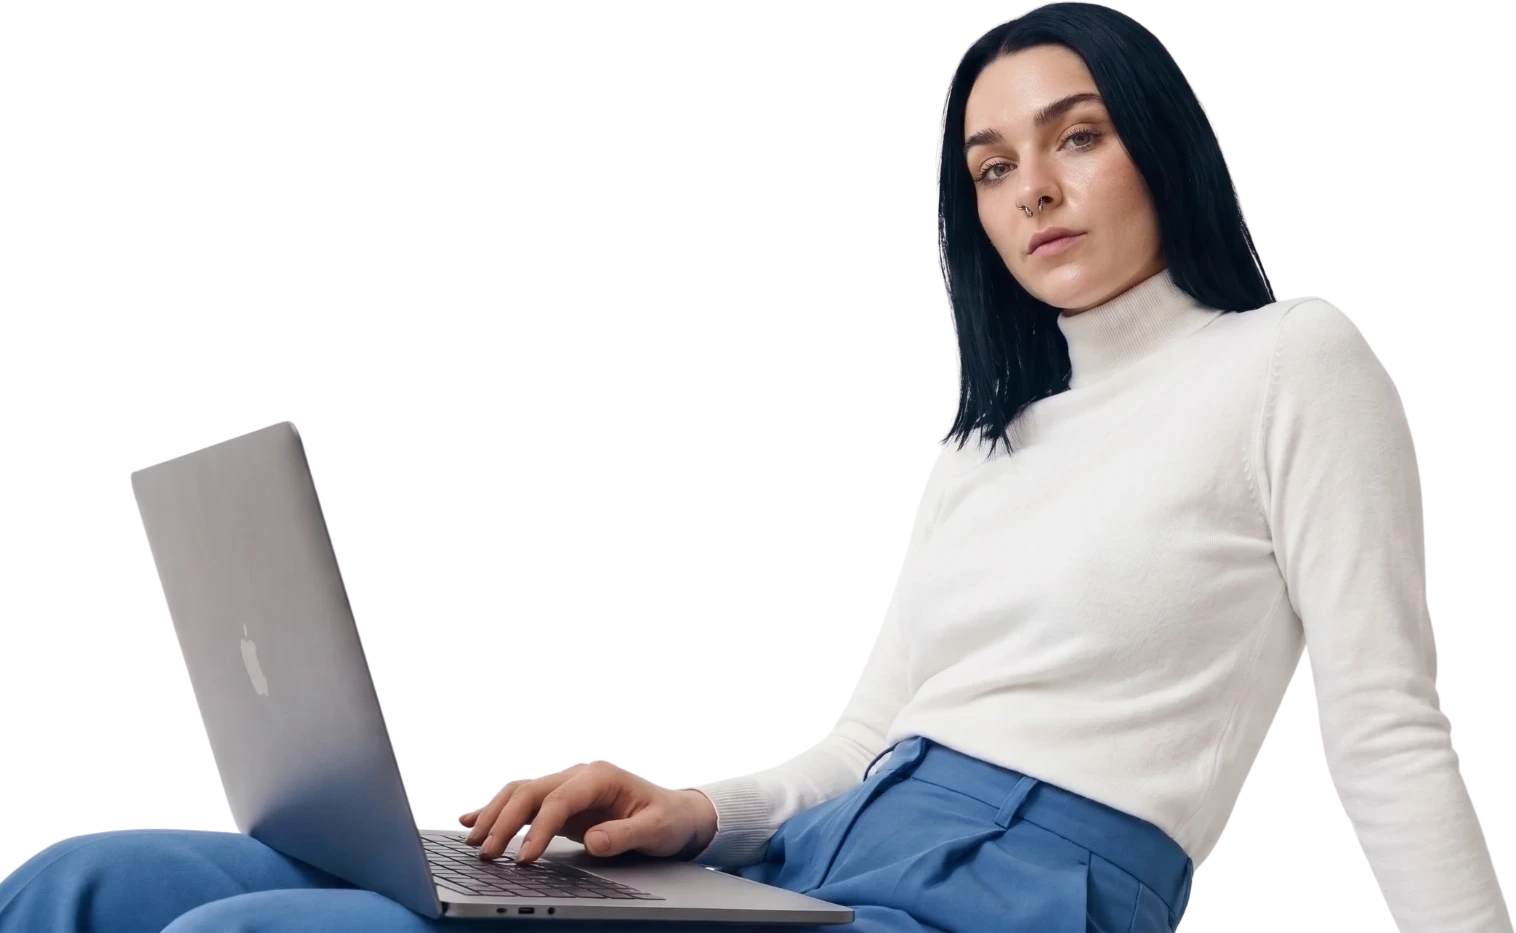
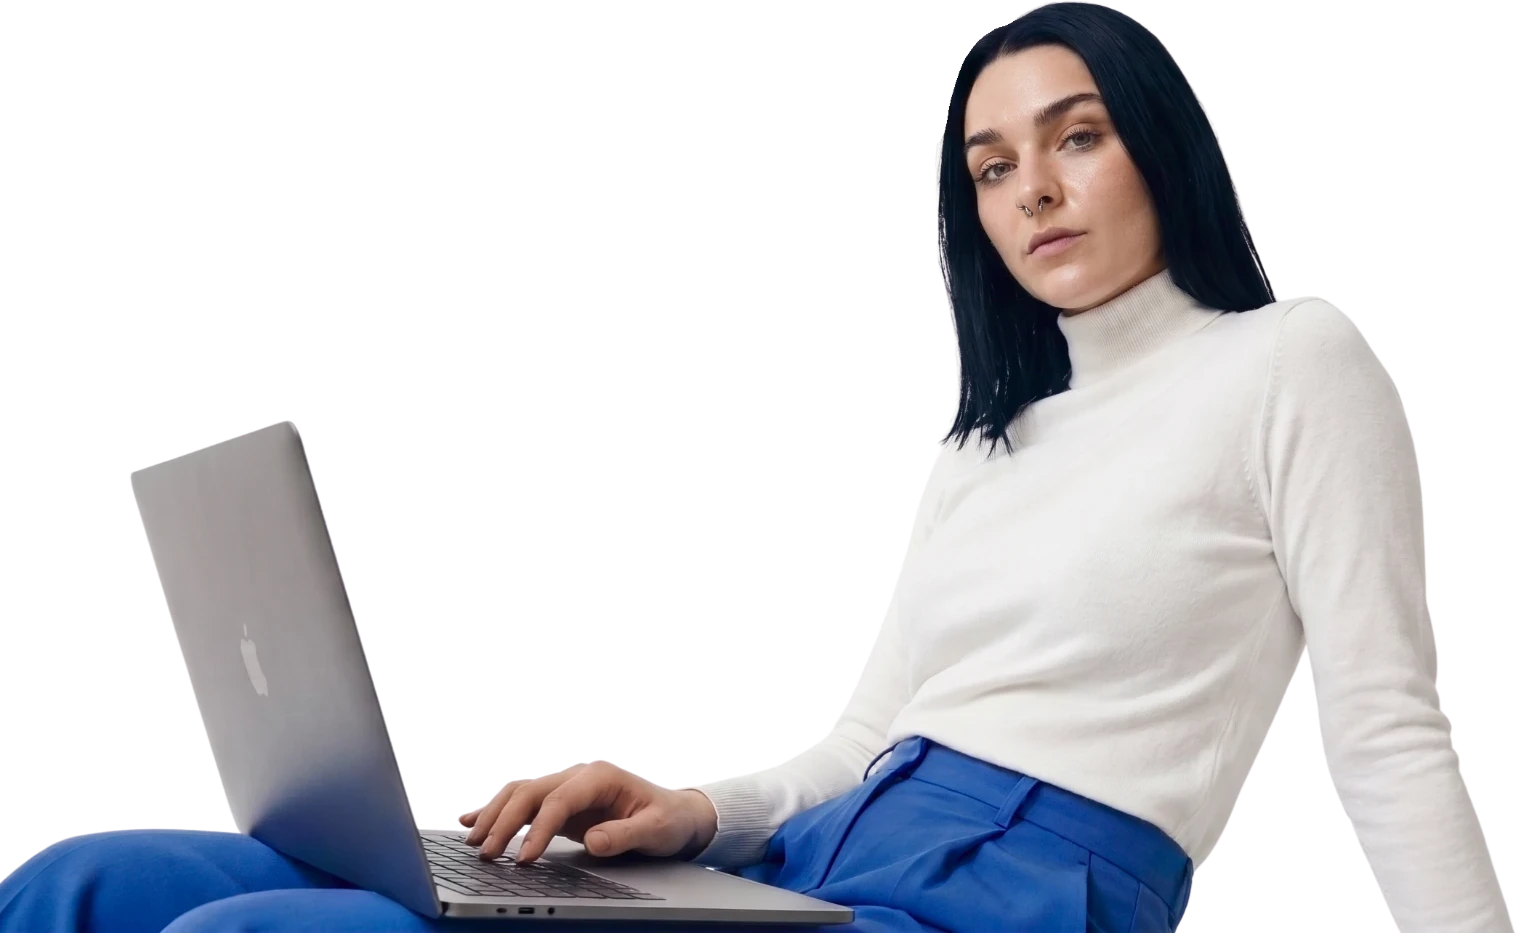
UGC v17: nueva foto de Diana que mandó el usuario
Claude-Session: https://claude.ai/code/session_01YcKiQFBhJYcwdpxSvLqgLC

Changed region(s): [[0.496, 0.7771, 0.7751, 1.0], [0.0, 0.8703, 0.31, 1.0], [0.6201, 0.0622, 0.6511, 0.1243]]

diff --git a/public/ugc-v17/index.html b/public/ugc-v17/index.html
@@ -381,7 +381,7 @@ img,video{display:block;max-width:100%}
         </div>
       </div>
     </div>
-    <img class="hero__model" src="media/modelo.webp?v=3" alt="Diana con su laptop" fetchpriority="high">
+    <img class="hero__model" src="media/modelo.webp?v=4" alt="Diana con su laptop" fetchpriority="high">
   </section>
 
   <!-- Intro con números -->
